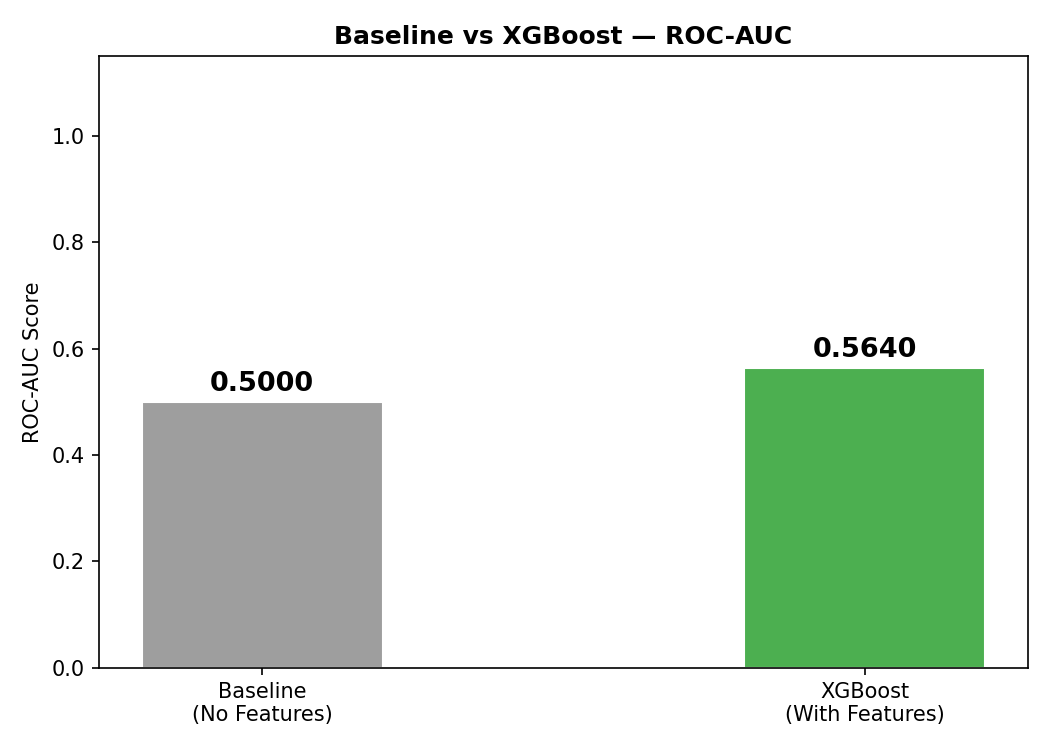
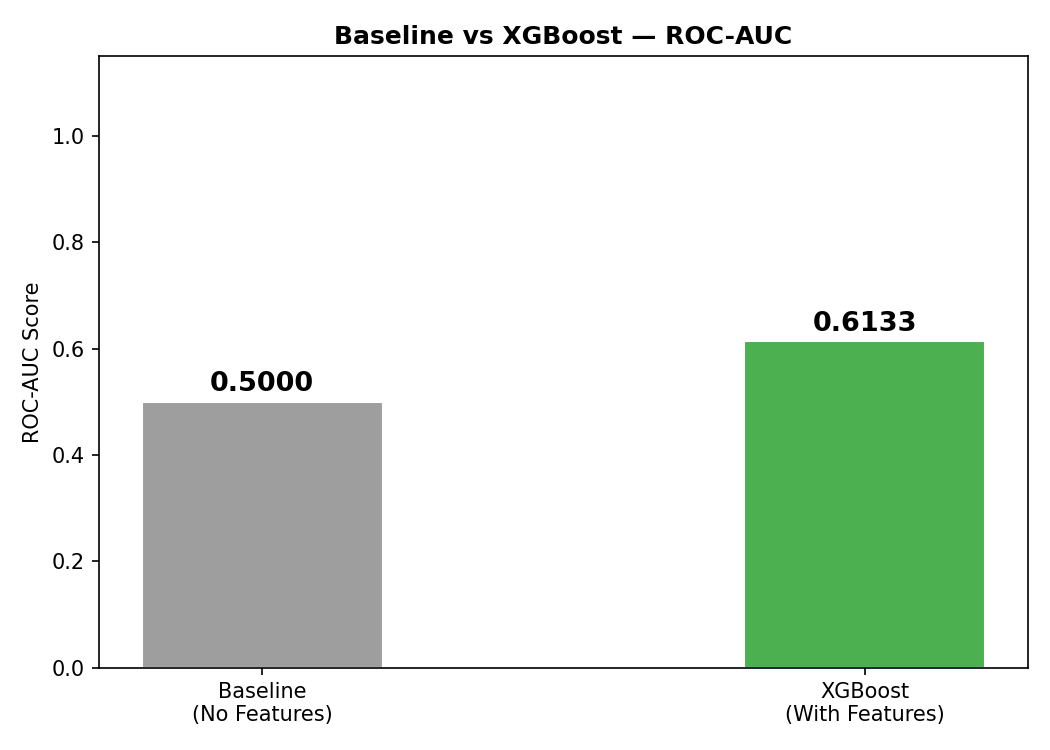
XGBoost score increased to 0.6 AUC-ROC

Changed region(s): [[0.701, 0.3987, 0.9448, 0.4907]]

diff --git a/models/lstm_model.py b/models/lstm_model.py
@@ -97,7 +97,7 @@ def load_sequences() -> tuple[np.ndarray, np.ndarray, list[int]]:
         if len(arr) >= SEQ_LENGTH:
             arr = arr[-SEQ_LENGTH:]
         else:
-            pad = np.zeros((SEQ_LENGTH - len(arr), N_FEATURES), dtype=np.float32)
+            pad = np.full((SEQ_LENGTH - len(arr), N_FEATURES), np.nan)
             arr = np.vstack([pad, arr])
 
         enc_ids.append(eid)
@@ -106,39 +106,59 @@ def load_sequences() -> tuple[np.ndarray, np.ndarray, list[int]]:
 
     X = np.stack(sequences, axis=0)
     y = np.array(labels, dtype=int)
-    # 🔥 FIX: remove useless sequences (all zeros)
+    enc_ids = np.array(enc_ids)
+
+    # 🔥 remove empty sequences
     valid_idx = ~(X.sum(axis=(1, 2)) == 0)
+
     X = X[valid_idx]
     y = y[valid_idx]
+    enc_ids = enc_ids[valid_idx]
+
+    # 🔥 NOW safe to apply nan_to_num
+    X = np.nan_to_num(X, nan=0.0)
 
     print(f"  X shape: {X.shape}  |  y shape: {y.shape}")
-    # 🔥 FIX: balance dataset (your readmission rate is ~1%)
-    pos_idx = np.where(y == 1)[0]
-    neg_idx = np.where(y == 0)[0]
 
-    if len(pos_idx) > 0:
-        upsampled_pos = np.random.choice(pos_idx, size=len(neg_idx), replace=True)
-        new_idx = np.concatenate([neg_idx, upsampled_pos])
-        np.random.shuffle(new_idx)
-
-        X = X[new_idx]
-        y = y[new_idx]
-
-        print(f"  After balancing → samples: {len(y)}, pos rate: {y.mean():.2%}")
+    print(f"  After balancing → samples: {len(y)}, pos rate: {y.mean():.2%}")
     return X, y, enc_ids
 
 
 # ─────────────────────────────────────────────────────────────
 # 2. Chronological split
 # ─────────────────────────────────────────────────────────────
-def split_chronological(X, y):
-    n         = len(X)
-    train_end = int(n * 0.70)
+def split_by_encounter(X, y, enc_ids):
+    """
+    Proper split to avoid leakage.
+    Ensures no encounter appears in multiple splits.
+    """
+
+    df = pd.DataFrame({
+        "encounter_id": enc_ids,
+        "label": y
+    })
+
+    # sort by encounter_id (proxy for time)
+    df = df.sort_values("encounter_id")
+
+    n = len(df)
+    train_end = int(n * 0.7)
     val_end   = int(n * 0.85)
 
-    X_train, y_train = X[:train_end],        y[:train_end]
-    X_val,   y_val   = X[train_end:val_end], y[train_end:val_end]
-    X_test,  y_test  = X[val_end:],          y[val_end:]
+    train_ids = df.iloc[:train_end]["encounter_id"]
+    val_ids   = df.iloc[train_end:val_end]["encounter_id"]
+    test_ids  = df.iloc[val_end:]["encounter_id"]
+
+    def get_mask(ids):
+        return np.isin(enc_ids, ids)
+
+    train_mask = get_mask(train_ids)
+    val_mask   = get_mask(val_ids)
+    test_mask  = get_mask(test_ids)
+
+    X_train, y_train = X[train_mask], y[train_mask]
+    X_val,   y_val   = X[val_mask],   y[val_mask]
+    X_test,  y_test  = X[test_mask],  y[test_mask]
 
     for name, yy in [("Train", y_train), ("Val", y_val), ("Test", y_test)]:
         print(f"  {name:5s}: {len(yy):,}  readmit={yy.mean():.2%}")
@@ -186,7 +206,7 @@ class BiLSTM(nn.Module):
         )
         self.bn   = nn.BatchNorm1d(256)
         self.fc1  = nn.Linear(256, 64)
-        self.drop = nn.Dropout(0.3)
+        self.drop = nn.Dropout(0.5)
         self.fc2  = nn.Linear(64, 1)
 
     def forward(self, x):
@@ -230,7 +250,7 @@ def train_model(model, X_train, y_train, X_val, y_val):
         num_workers= 0,
     )
 
-    optimizer = torch.optim.Adam(model.parameters(), lr=5e-4, weight_decay=1e-5)
+    optimizer = torch.optim.Adam(model.parameters(), lr=1e-3, weight_decay=1e-5)
     scheduler = torch.optim.lr_scheduler.ReduceLROnPlateau(
         optimizer, mode="max", patience=3, factor=0.5
     )
@@ -402,7 +422,7 @@ if __name__ == "__main__":
     X, y, enc_ids = load_sequences()
 
     print("\nSplitting (chronological 70/15/15)...")
-    X_train, y_train, X_val, y_val, X_test, y_test = split_chronological(X, y)
+    X_train, y_train, X_val, y_val, X_test, y_test = split_by_encounter(X, y, enc_ids)
 
     print("\nNormalising...")
     X_train, X_val, X_test, scaler = normalise(X_train, X_val, X_test)

diff --git a/models/xgboost_model.py b/models/xgboost_model.py
@@ -25,6 +25,7 @@ from sklearn.metrics import (
     confusion_matrix, ConfusionMatrixDisplay,
     classification_report, roc_curve,
 )
+import xgboost as xgb
 from sklearn.dummy import DummyClassifier
 from xgboost import XGBClassifier
 from dotenv import load_dotenv
@@ -44,10 +45,12 @@ os.makedirs("eda_plots",   exist_ok=True)
 
 FEATURE_COLS = [
     "age_at_admission",
-    "gender",
     "length_of_stay",
     "num_diagnoses",
     "num_medications",
+    "avg_hr",
+    "max_bp_sys",
+    "avg_temp",
     "max_creatinine",
     "max_wbc",
     "num_prior_admissions",
@@ -96,7 +99,7 @@ def load_data() -> pd.DataFrame:
     query = text("""
         SELECT
             ef.encounter_id,
-            ef.admit_date,
+            ef.admit_time AS admit_date,
             ef.age_at_admission,
             ef.gender,
             ef.length_of_stay,
@@ -111,14 +114,22 @@ def load_data() -> pd.DataFrame:
             rl.readmitted_30d AS label
         FROM encounter_features ef
         JOIN readmission_label rl
-          ON rl.encounter_id = ef.encounter_id
+        ON rl.encounter_id = ef.encounter_id
         WHERE ef.length_of_stay > 0
-        ORDER BY ef.admit_date ASC
+        ORDER BY ef.admit_time ASC;
     """)
     with engine.connect() as conn:
         df = pd.read_sql(query, conn)
         # 🔥 FIX: better missing handling
-        df[FEATURE_COLS] = df[FEATURE_COLS].fillna(df[FEATURE_COLS].median())
+    # 🔥 Fix gender
+    df["gender"] = df["gender"].map({"M": 1, "F": 0})
+
+    # 🔥 Ensure numeric columns
+    for col in FEATURE_COLS:
+        df[col] = pd.to_numeric(df[col], errors="coerce")
+
+    # 🔥 Fill missing values
+    df[FEATURE_COLS] = df[FEATURE_COLS].fillna(df[FEATURE_COLS].median())
 
     print(f"  Total encounters : {len(df):,}")
     print(f"  Readmission rate : {df['label'].mean():.2%}")
@@ -167,11 +178,15 @@ def train_model(train: pd.DataFrame, val: pd.DataFrame):
 
     # ✅ Use ORIGINAL data (NO UPSAMPLING)
     X_train = train[FEATURE_COLS].fillna(0).astype(float)
+    # 🔥 FIX: remove fake zeros
+    for col in FEATURE_COLS:
+        X_train[col] = X_train[col].replace(0, np.nan)
+
+    X_train = X_train.fillna(X_train.median())
     y_train = train["label"].astype(int)
 
-    X_val = val[FEATURE_COLS].fillna(0).astype(float)
+    X_val = val[FEATURE_COLS].astype(float)
     y_val = val["label"].astype(int)
-
     # ✅ Proper class imbalance handling
     pos = int(y_train.sum())
     neg = len(y_train) - pos
@@ -181,28 +196,26 @@ def train_model(train: pd.DataFrame, val: pd.DataFrame):
           f"(pos={pos:,}  neg={neg:,})")
 
     # ✅ Stable model (prevents overfitting on weak data)
-    model = XGBClassifier(
-        n_estimators=150,
-        max_depth=3,
+    model = xgb.XGBClassifier(
+        n_estimators=600,
+        max_depth=4,
         learning_rate=0.03,
-        min_child_weight=20,
-        gamma=1.0,
         subsample=0.8,
         colsample_bytree=0.8,
-        reg_alpha=1.0,
-        reg_lambda=3.0,
         scale_pos_weight=scale_pos_wt,
+        reg_lambda=2,
+        reg_alpha=1,
+        min_child_weight=5,
         eval_metric="auc",
-        early_stopping_rounds=50,
-        tree_method="hist",
         random_state=42,
-        n_jobs=-1,
     )
 
     model.fit(
-        X_train, y_train,
+        X_train,
+        y_train,
         eval_set=[(X_val, y_val)],
-        verbose=50,
+        early_stopping_rounds=50,
+        verbose=True
     )
 
     print(f"  Best iteration   : {model.best_iteration}")

diff --git a/models/fusion.py b/models/fusion.py
@@ -279,6 +279,12 @@ class FusionPredictor:
         df = self._fetch_tabular(encounter_id)
         if df.empty:
             return 0.5   # neutral fallback
+        # 🔥 ensure all expected columns exist
+        for col in self.xgb_features:
+            if col not in df.columns:
+                df[col] = 0
+        if "gender" in df.columns:
+            df["gender"] = df["gender"].map({"M": 1, "F": 0})
         X = df[self.xgb_features].fillna(0).astype(float)
         return float(self.xgb_model.predict_proba(X)[0, 1])
 
